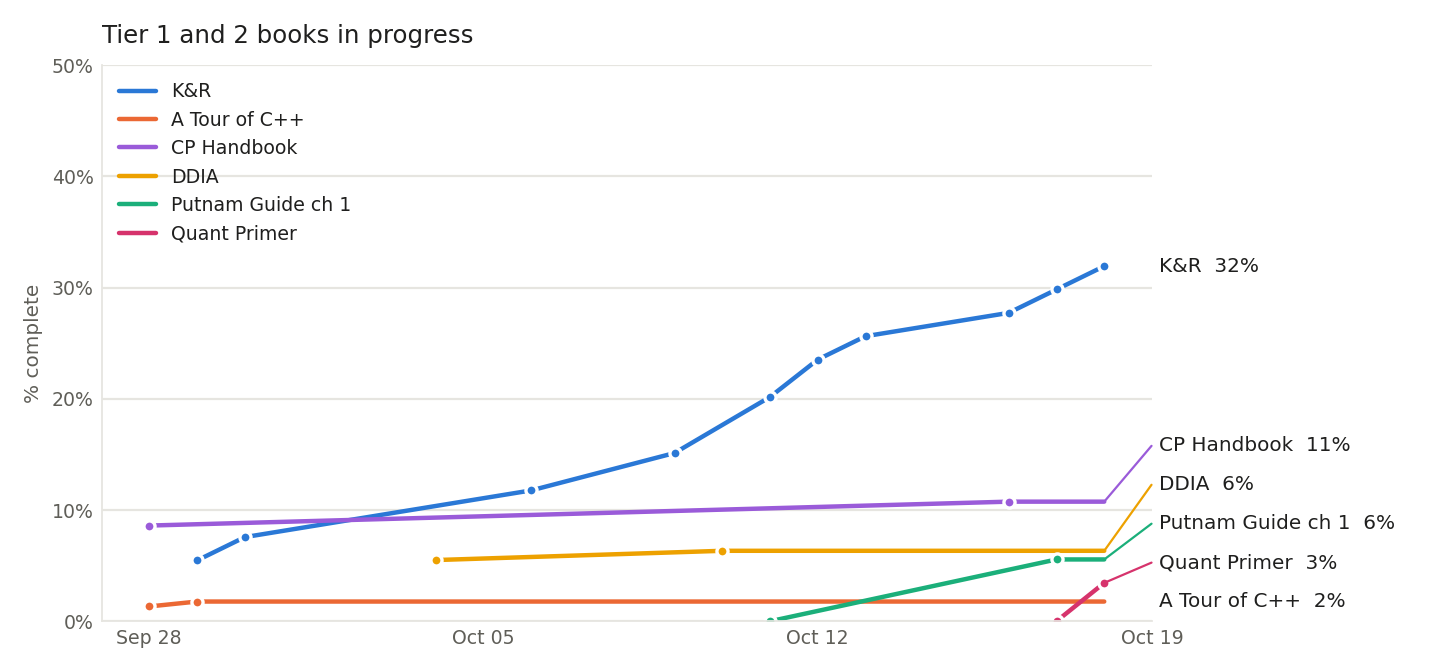
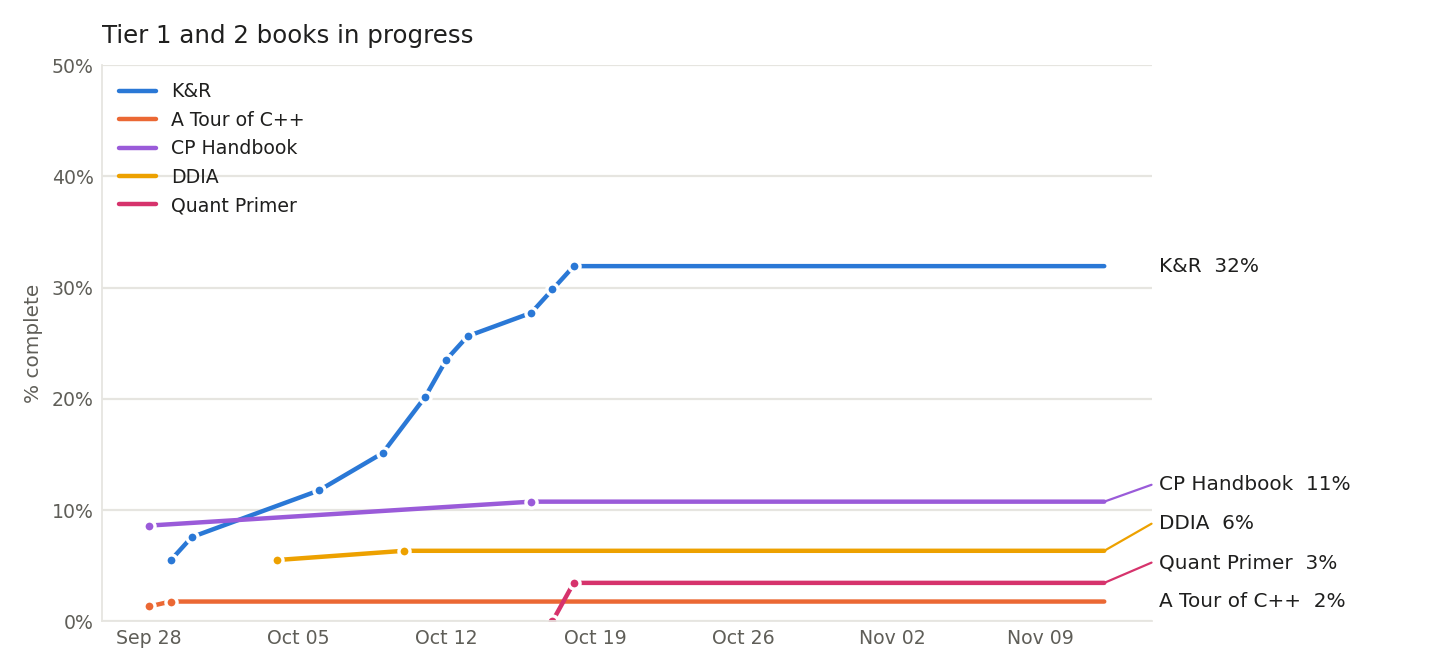
Remove Putnam material; goal is now five books, track renamed to cp

diff --git a/scripts/plot_progress.py b/scripts/plot_progress.py
@@ -20,13 +20,12 @@ ROOT = Path(__file__).resolve().parent.parent
 CSV, PNG, README = ROOT / "progress.csv", ROOT / "progress.png", ROOT / "README.md"
 
 # Fixed categorical order and hue per book; never reassigned when a book is added or finished.
-# Green book (#1baf7a) was removed 2026-10-11; its hue went to Putnam Guide.
+# Green book (#1baf7a) was removed 2026-10-11; Putnam Guide, which reused that hue, was removed 2026-11-12.
 BOOKS = [
     ("K&R", "#2a78d6", "pages"),
     ("A Tour of C++", "#eb6834", "pages"),
     ("CP Handbook", "#9a5bd9", "pages"),  # 279-page copy; read from the start, baseline page 24 (corrected 2026-10-16)
     ("DDIA", "#eda100", "pages"),
-    ("Putnam Guide ch 1", "#1baf7a", "items"),  # 1 definition + 5 theorems + 13 examples + 1 strategies section + 52 exercises
     ("Quant Primer", "#d6336c", "items"),  # Bester, An Interview Primer for Quantitative Finance: 39 questions (41 numbered minus R questions 3 and 36) + 19 reading sections = 58 items (switched from 92 pages on 2026-10-18)
 ]
 TEXT, TEXT2, GRID = "#1f1f1e", "#5f5e58", "#e6e5e0"

diff --git a/README.md b/README.md
@@ -5,7 +5,7 @@ Personal reading list across three tracks. Each track lives in its own file unde
 | Track | File |
 |---|---|
 | Career progression | [tracks/career.md](tracks/career.md) |
-| Putnam & competitive programming | [tracks/putnam-cp.md](tracks/putnam-cp.md) |
+| Competitive programming | [tracks/cp.md](tracks/cp.md) |
 | Quant dev / quant research | [tracks/quant.md](tracks/quant.md) |
 
 ## Progress
@@ -19,24 +19,22 @@ Personal reading list across three tracks. Each track lives in its own file unde
 | A Tour of C++ | `░░░░░░░░░░░░░░░░░░░░` | 2% | 4 of 226 pages |
 | CP Handbook | `██░░░░░░░░░░░░░░░░░░` | 11% | 30 of 279 pages |
 | DDIA | `█░░░░░░░░░░░░░░░░░░░` | 6% | 38 of 600 pages |
-| Putnam Guide ch 1 | `█░░░░░░░░░░░░░░░░░░░` | 6% | 4 of 72 items |
 | Quant Primer | `█░░░░░░░░░░░░░░░░░░░` | 3% | 2 of 58 items |
 <!-- progress:end -->
 
 Data lives in [progress.csv](progress.csv). After logging, run `python3 scripts/plot_progress.py` to redraw the chart and this table.
 
-## Goal: six books by December 31, 2027
+## Goal: five books by December 31, 2027
 
-Set 2026-10-17. Finish these six before the end of 2027:
+Set 2026-10-17 as six books; the Putnam Guide moved out on 2026-11-12 (Putnam prep is tracked in its own repo). Finish these five before the end of 2027:
 
 1. The C Programming Language (K&R)
 2. A Tour of C++
-3. Putnam Guide (chapter 1 by the end of 2026, meaning all examples plus chosen exercises; later chapters selectively, not cover to cover)
-4. Designing Data-Intensive Applications
-5. Competitive Programmer's Handbook
-6. An Interview Primer for Quantitative Finance
+3. Designing Data-Intensive Applications
+4. Competitive Programmer's Handbook
+5. An Interview Primer for Quantitative Finance
 
-The chart above tracks all six.
+The chart above tracks all five.
 
 ## Priority order
 
@@ -46,8 +44,7 @@ The chart above tracks all six.
 |---|---|---|---|
 | [~] | The C Programming Language (2nd ed.) | Brian Kernighan, Dennis Ritchie | [quant](tracks/quant.md) |
 | [~] | A Tour of C++ | Bjarne Stroustrup | [quant](tracks/quant.md) |
-| [~] | Competitive Programmer's Handbook (draft, Aug 2019) | Antti Laaksonen | [putnam-cp](tracks/putnam-cp.md) |
-| [~] | Putnam Guide | R. Ebrahimian (UMD) | [putnam-cp](tracks/putnam-cp.md) |
+| [~] | Competitive Programmer's Handbook (draft, Aug 2019) | Antti Laaksonen | [cp](tracks/cp.md) |
 | [~] | An Interview Primer for Quantitative Finance | Dirk Bester | [quant](tracks/quant.md) |
 
 ### Tier 2

diff --git a/tracks/quant.md b/tracks/quant.md
@@ -19,7 +19,7 @@
 - [~] **A Practical Guide to Quantitative Finance Interviews** by Xinfeng Zhou (Tier 2)
   Status (2026-09-28): ch 2 brainteasers mostly done, ch 4 probability a lot done. Not started: ch 3 calculus and linear
   algebra, ch 5 stochastic processes, ch 6 finance, ch 7 algorithms and numerical methods.
-  2026-10-11: dropped to Tier 2 since the QT recruiting cycle has passed; Putnam Guide takes its slot. New approach is
+  2026-10-11: dropped to Tier 2 since the QT recruiting cycle has passed. New approach is
   sampling sections as needed rather than problem by problem, so page progress is no longer tracked for this book.
   Earlier plan: one problem a day, alongside the C book. Goal is getting through the whole book, not clearing every problem in a
   chapter before moving on. Order: ch 3 (started 2026-10-01), then 7, 5, 6; circle back to ch 2 and 4 leftovers after.
@@ -55,7 +55,7 @@
 - [ ] **The Theory of Poker** by David Sklansky (Tier 2)
   Expected value, pot odds, and decision-making under uncertainty. Common background for trading-firm interviews.
   Moved to Tier 2 on 2026-10-13: SIG QT interviews are built around poker-style decisions and SIG recommends this book.
-  Light reading, 172 pages. Read it as the weekly non-C item alongside Putnam, not instead of C or C++.
+  Light reading, 172 pages. Read it as the weekly non-C item, not instead of C or C++.
 
 ### Foundations (Tier 3)
 

diff --git a/tracks/cp.md b/tracks/cp.md
@@ -1,0 +1,15 @@
+# Competitive programming
+
+## Reading
+
+- [~] **Competitive Programmer's Handbook** by Antti Laaksonen, draft of August 19, 2019 (Tier 1)
+  Compact coverage of the standard CP toolkit: complexity, sorting, DP, graphs, number theory, geometry. Good fit for the 1000 to 1600 Codeforces range.
+  Original plan (2026-10-13) was to skip chapters 1 and 2 and start at page 35 of a 300-page count. That count was wrong
+  for the copy in use, which is 279 pages, and reading is being tracked from the start of the book instead.
+  Log: 2026-10-13 added. 2026-10-16 corrected: total is 279 pages, previous position was page 24, now at page 30.
+  Moved to Tier 1 on 2026-10-09: a listable Codeforces rating (1800+) is one of the two signals the summer 2028 tier-1
+  internship resume needs. Target: 1800 by May 2027.
+
+## Done
+
+_(none yet)_
